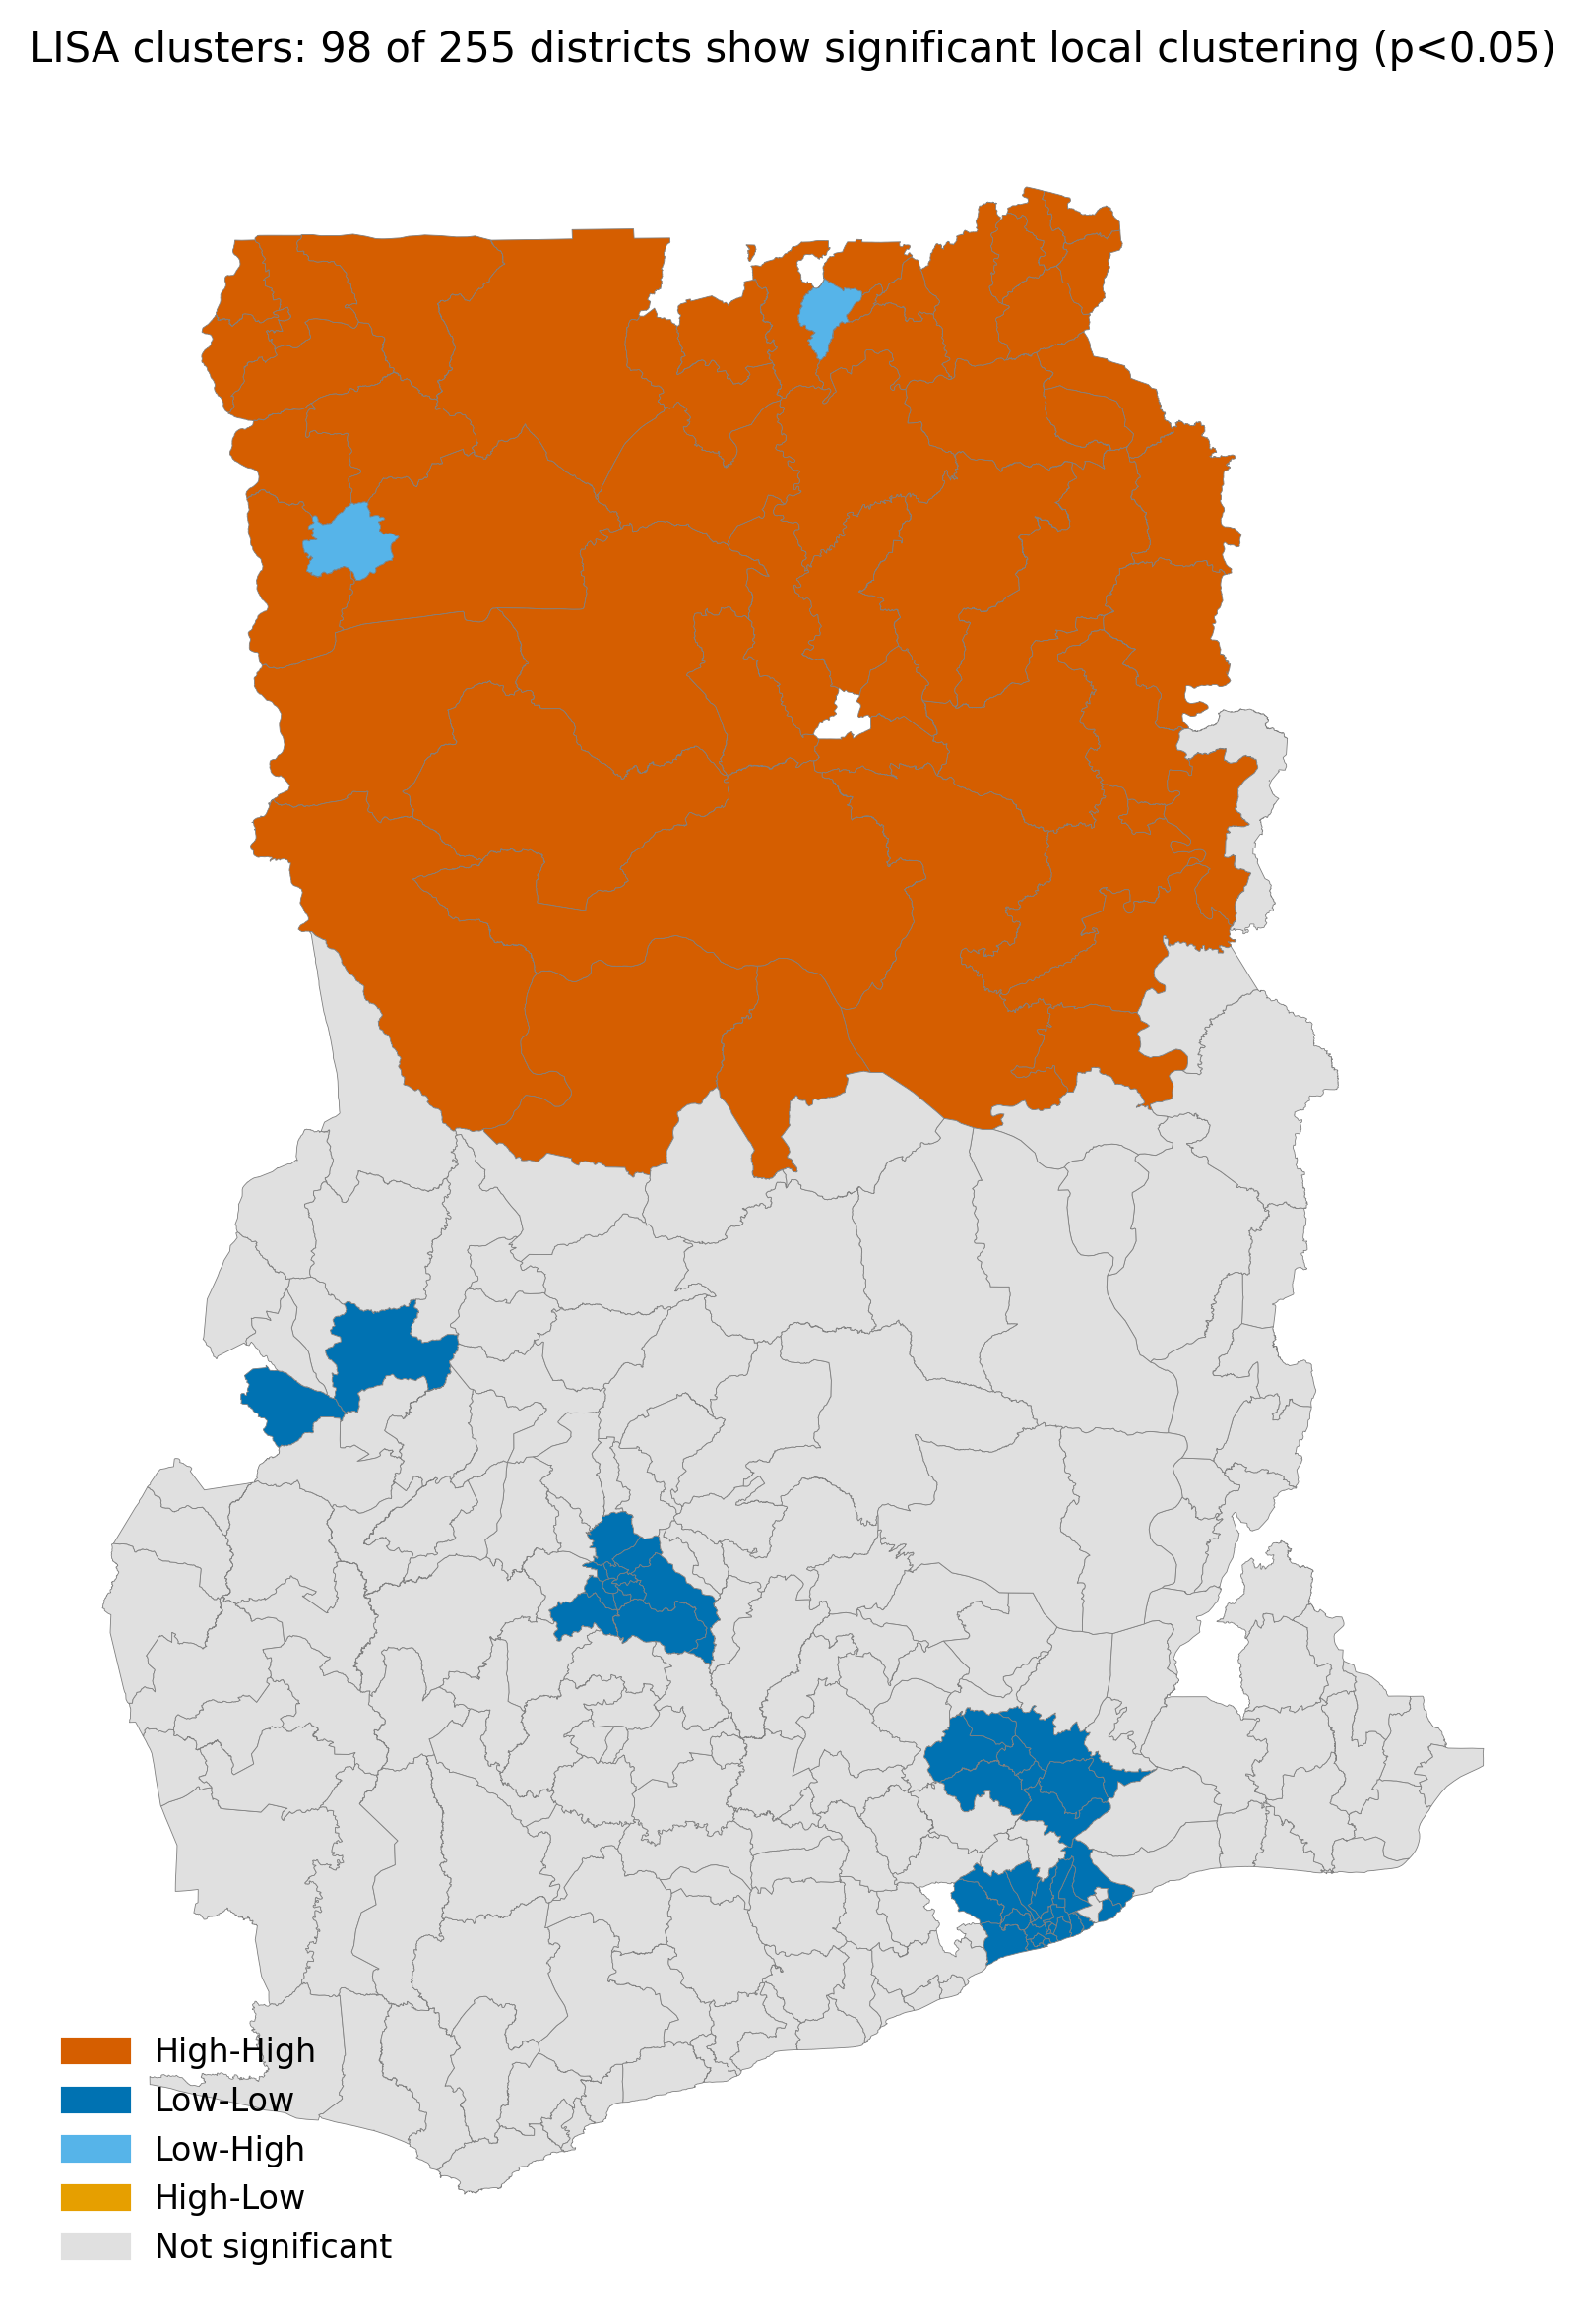
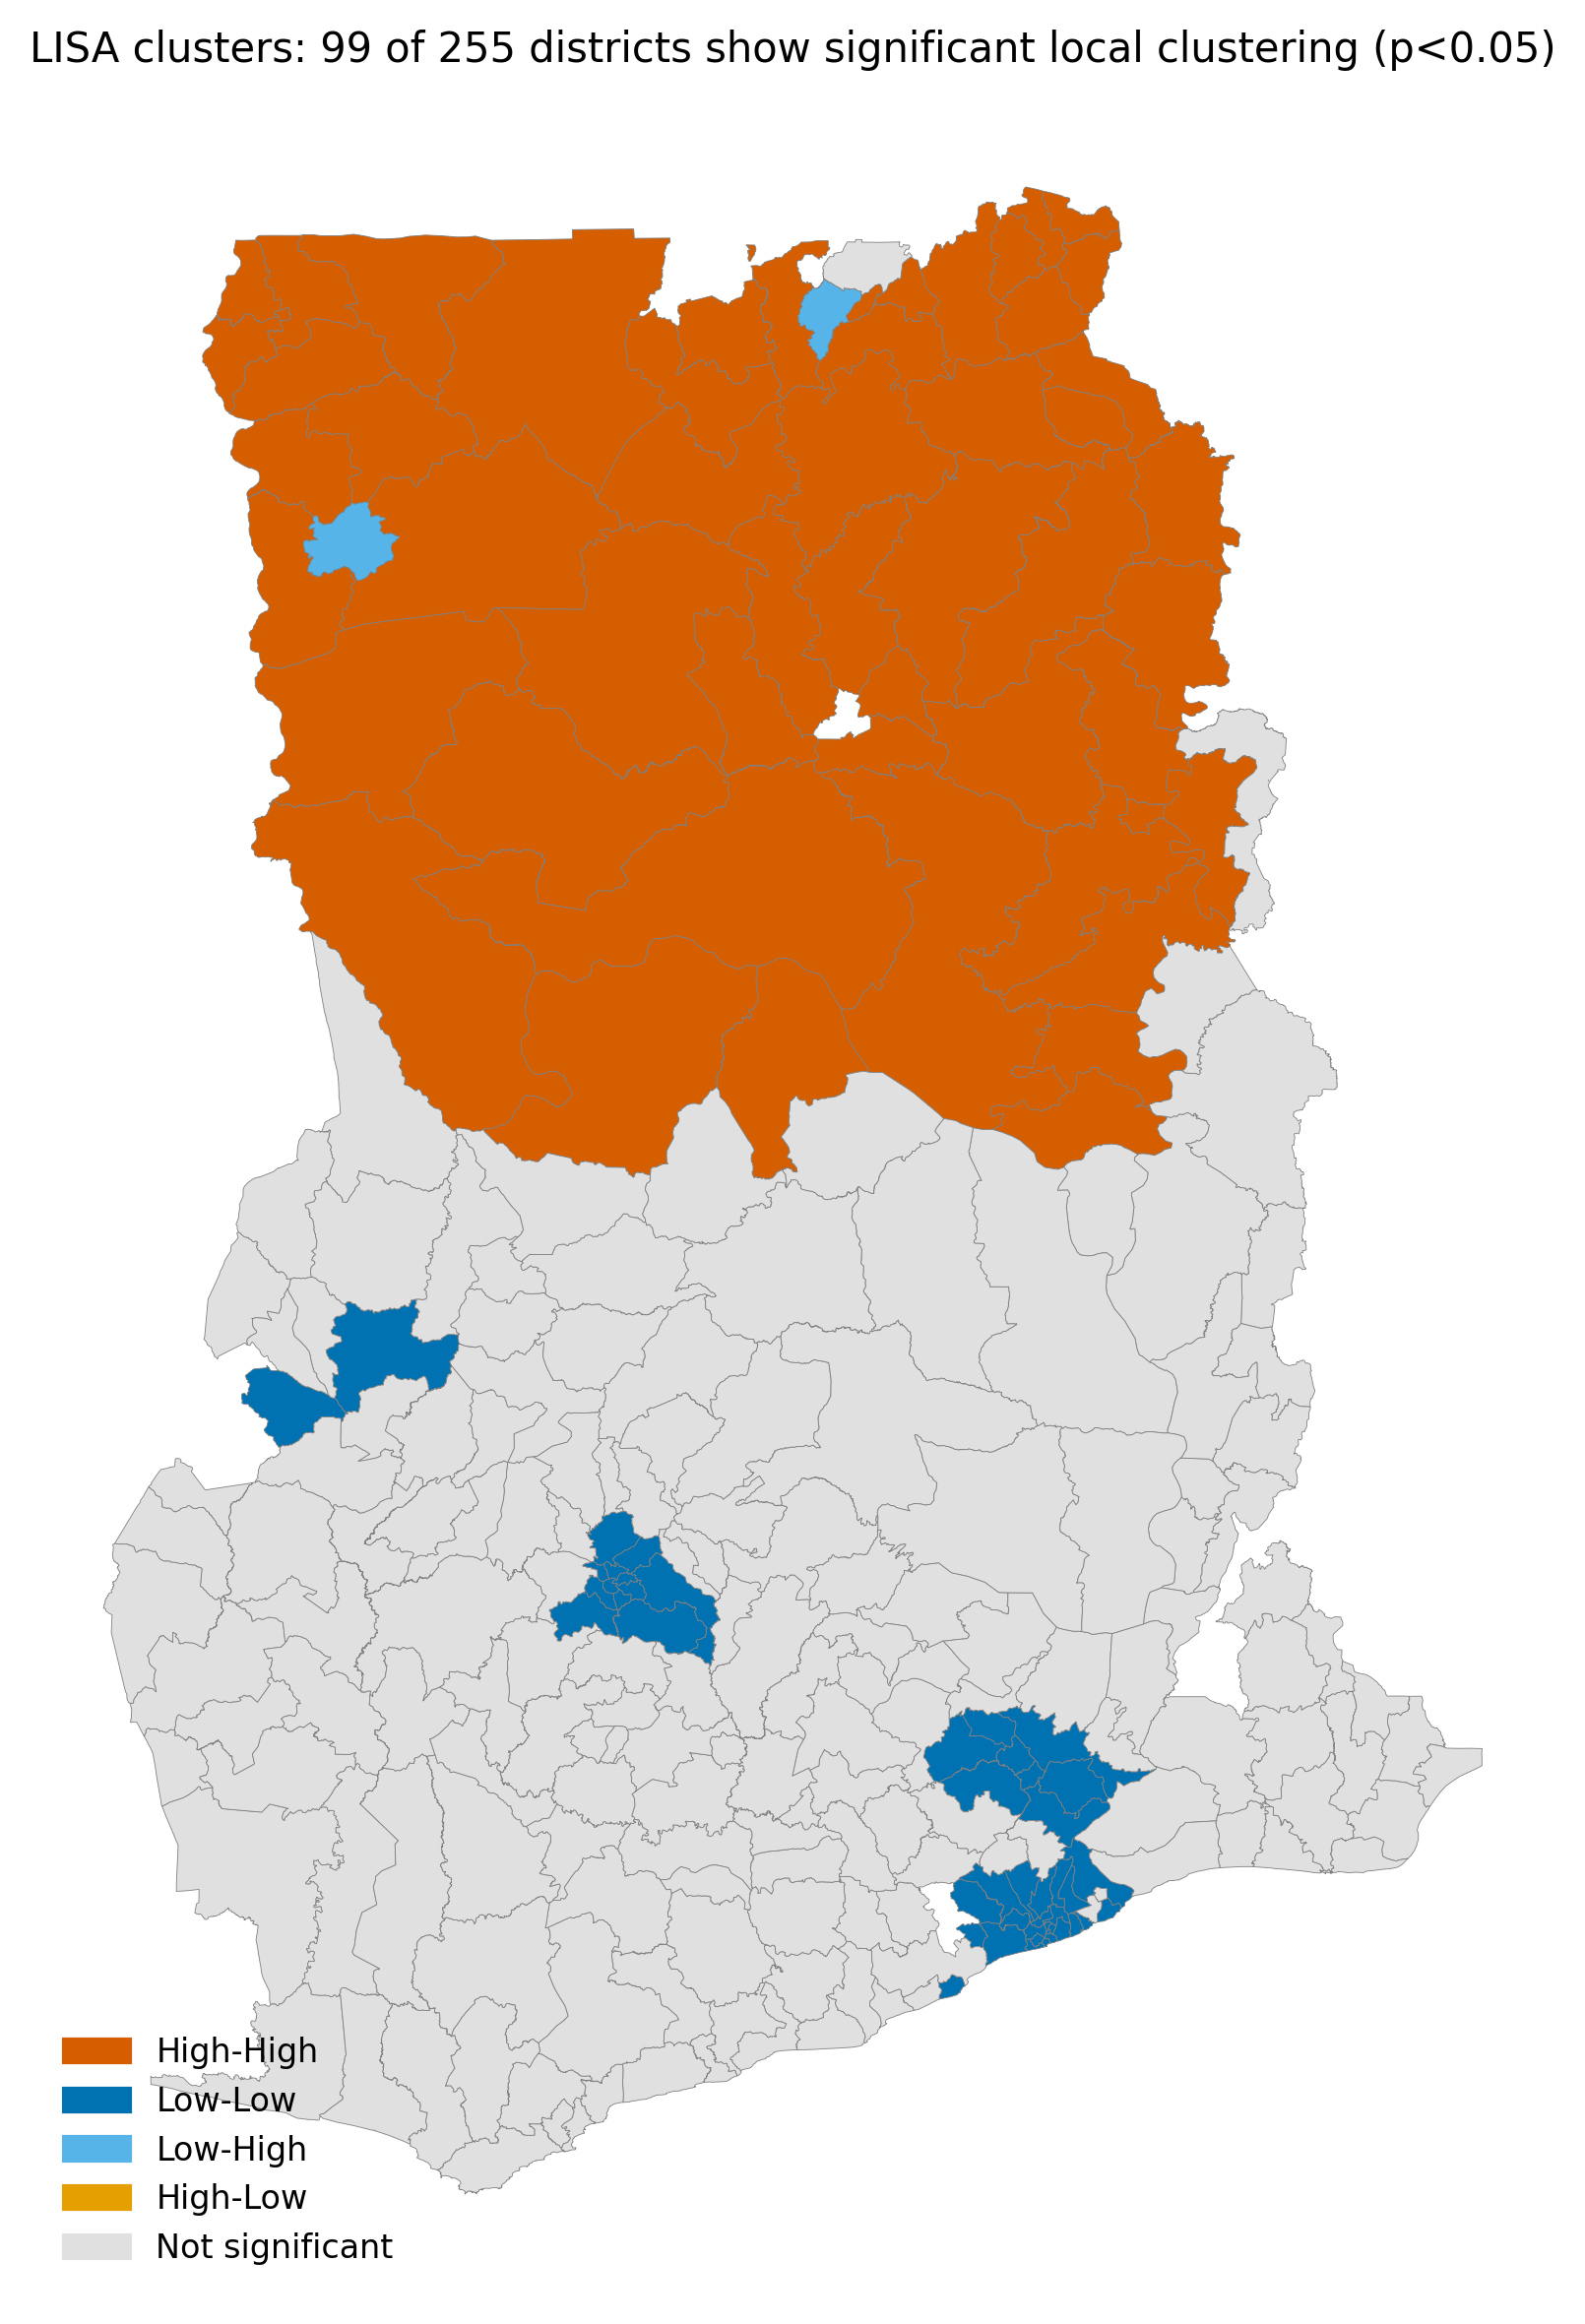
Fix manuscript aspect ratio, orphaned citations, and dashboard bars not rendering
Manuscript (analysis/build_figures.py, analysis/assemble_docx.py, qa/qa_6pass.py):
- figure2_forecast_comparison.png used figsize=(14,4.5) (aspect 3.11), embedding
  at ~1.75in tall at the manuscript's fixed 5.4in figure width -- illegible
  3-panel model comparison. Changed to (14,6.5) (aspect 2.08, ~2.6in embedded).
- Fixed 2 orphaned references (Alkire & Foster 2011; Ghana Statistical Service
  2021): both were in the bibliography with assigned numbers but never appeared
  as [n] anywhere in the body. Root cause: the Vancouver name-year converter
  required an entire semicolon-split parenthetical to be pure citation keys, so
  "(Alkire-Foster method; Alkire & Foster 2011)" failed wholesale instead of
  converting just the citation segment. Fixed the converter to convert
  per-segment; fixed the two source citations to use clean citation-only
  parentheticals. Added QA-3b (permanent): every listed reference must actually
  be cited in-text, not just bounded by count.
- Council-decided (2026-07-03): Discussion's non-ascending figure/table citation
  order is NOT a defect -- Discussion is organised by argument/theme, unlike
  Results which follows analysis sequence. QA-6b's ascending-order rule is
  correctly scoped to Results only; documented explicitly so this isn't
  re-litigated.

Dashboard/poster (bespoke templates): the histogram (and every other chart) was
rendering with zero painted content in a properly-sized canvas -- traced via
[…]

diff --git a/dashboard/TB_Trends_Ghana_Dashboard.html b/dashboard/TB_Trends_Ghana_Dashboard.html
@@ -38,6 +38,8 @@ html[data-theme=dark]{--bg:#0e1620;--panel:#16202c;--ink:#e7eef6;--muted:#90a2b6
 body{margin:0;background:var(--bg);color:var(--ink);font-family:'Inter',system-ui,-apple-system,Segoe UI,Roboto,Arial,sans-serif;-webkit-font-smoothing:antialiased;transition:background .25s,color .25s}
 .wrap{max-width:1480px;margin:0 auto;padding:16px 20px 48px}
 header.top{display:flex;flex-wrap:wrap;gap:14px;align-items:center;justify-content:space-between;background:linear-gradient(120deg,var(--primary),var(--primary2));color:#fff;border-radius:16px;padding:16px 22px;box-shadow:var(--shadow)}
+.caveat{display:none;margin-top:10px;padding:10px 16px;border-radius:10px;border:1.5px solid #b7791f;background:#fffbeb;color:#7c4a03;font-size:12.5px;line-height:1.5}
+[data-theme="dark"] .caveat{background:#3a2e10;color:#f5d896;border-color:#d69e2e}
 header.top h1{margin:0;font-size:1.26rem;font-weight:800;letter-spacing:-.01em}
 header.top .meta{font-size:.76rem;opacity:.92;margin-top:3px}
 .tag{display:inline-block;background:rgba(255,255,255,.2);font-size:.6rem;font-weight:700;padding:2px 8px;border-radius:20px;vertical-align:middle}
@@ -87,6 +89,7 @@ input[type=range]{width:155px;accent-color:var(--primary);cursor:pointer}
 @media(max-width:1100px){.kpis{grid-template-columns:repeat(3,1fr)}.span3,.span4,.span5,.span6,.span7,.span8{grid-column:span 12}.chart.map{height:380px}}
 </style></head><body><div class="wrap">
 <header class="top"><div><h1 id="ttl"></h1><div class="meta" id="sub"></div></div><div class="brand">HI-EI Dashboard</div></header>
+<div class="caveat" id="caveatBox"></div>
 <div class="toolbar">
  <div class="ctl"><label>Map / ranking metric</label><div class="seg" id="segMetric"></div></div>
  <div class="ctl"><label>Spatial clusters (toggle)</label><div class="chips" id="lisaChips"></div></div>
@@ -151,6 +154,7 @@ var UNIT=C.unitName||'region',UNIT_CAP=UNIT.charAt(0).toUpperCase()+UNIT.slice(1
 // header
 document.getElementById('ttl').innerHTML=C.title+' <span class="tag">'+C.tag+'</span>';
 document.getElementById('sub').textContent=C.sub+' · V. Ghanem · ORCID 0009-0002-8332-0220';
+if(C.caveat){var cb=document.getElementById('caveatBox');cb.style.display='block';cb.innerHTML='<strong>&#9888; '+(C.caveatLabel||'Interpretation caveat')+':</strong> '+C.caveat;}
 document.getElementById('foot').innerHTML='Interactive single-file HI-EI dashboard — works offline. Smart controls: metric switch, cluster toggles, focus filter, sort, threshold slider, '+(C.hasX?'what-if predictor (OLS), ':'')+'zoomable maps, live summary, CSV/PNG/self-download. Data: published '+UNIT+' values for this study.';
 document.getElementById('focusLabel').textContent='Focus '+UNIT;
 document.getElementById('allRegionsOpt').textContent='All '+UNITS;
@@ -293,9 +297,16 @@ function bulletOpt(){
   xAxis:{type:'value',axisLabel:{color:ax()},splitLine:{lineStyle:{color:gl()}}},
   yAxis:{type:'category',data:rows.map(function(r){return r.n;}),axisLabel:{color:ax(),fontSize:10},axisLine:{lineStyle:{color:gl()}}},
   series:[{name:'National mean',type:'bar',barGap:'-100%',barWidth:'48%',data:rows.map(function(r){return r.m;}),itemStyle:{color:NAT,borderColor:NATB,borderWidth:1.2,borderType:'dashed'},z:1},
-   {name:'Focus',type:'bar',barWidth:'38%',data:rows.map(function(r){return r.f;}),itemStyle:{color:function(pp){return fRec?LISA[fRec.lisa]:FOC;}},z:2,label:{show:true,position:'right',color:ax(),formatter:function(p){return p.value.toFixed(1);}}}]};}
+   {name:'Focus',type:'bar',barWidth:'38%',data:rows.map(function(r){return r.f;}),itemStyle:{color:function(pp){return fRec?LISA[fRec.lisa]:FOC;}},z:2,label:{show:true,position:'right',color:ax(),formatter:function(p){return p.value.toFixed(1);}}},
+   // Standalone marker for the national mean: a bar collapses to an invisible sliver
+   // when the underlying metric is a z-score/PCA composite whose mean is ~0 by
+   // construction (bug found 2026-07-04: the "National mean" bar was undetectable
+   // for such indices). A scatter point stays visible regardless of bar width.
+   {name:'National mean',type:'scatter',symbol:'diamond',symbolSize:13,z:3,silent:true,
+    data:rows.map(function(r,i){return{value:[r.m,i],itemStyle:{color:NAT,borderColor:NATB,borderWidth:1.5}};}),
+    label:{show:true,position:'top',color:ax(),fontSize:9,formatter:function(p){return 'mean '+p.value[0].toFixed(2);}}}]};}
 
-function zoomMap(id,factor){if(factor==='reset'){mapZoom[id]=1;get(id).setOption(id==='mapLisa'?mapOpt('lisa'):mapOpt('v'),true);return;}
+function zoomMap(id,factor){if(factor==='reset'){mapZoom[id]=1;var mo=id==='mapLisa'?mapOpt('lisa'):mapOpt('v');mo.animation=false;get(id).setOption(mo,true);return;}
  var c=charts[id];if(!c)return;var z=mapZoom[id]||1;try{z=c.getOption().series[0].zoom||z;}catch(e){}
  mapZoom[id]=Math.max(1,Math.min(12,z*factor));c.setOption({series:[{zoom:mapZoom[id]}]});}
 function gradLegend(){var el=document.getElementById('legP');if(!el)return;var m=S.metric,r=rng(m),stops=[],dp=(r[1]-r[0]>20?0:1);for(var i=0;i<=12;i++)stops.push(cs(i/12));
@@ -321,8 +332,13 @@ function titles(){document.getElementById('mapTitle').textContent=metricOf(S.met
   document.getElementById('heatTitle').textContent='Distribution — '+PRIM.label;
   document.getElementById('heatCap').textContent='Districts binned by value; colour = dominant LISA cluster per bin.';
  }}
-function renderAll(){DEFS.forEach(function(c){if(c[0]==='scatter'&&!C.hasX)return;get(c[0]).setOption(c[1](),true);});summary();titles();gradLegend();}
-function renderOne(id){var m={mapP:function(){return mapOpt('v');},rank:rankOpt,scatter:scOpt,tiers:tiersOpt,lollipop:lolOpt,bullet:bulletOpt};if(m[id])get(id).setOption(m[id](),true);}
+function renderAll(){DEFS.forEach(function(c){if(c[0]==='scatter'&&!C.hasX)return;
+ var opt=c[1]();opt.animation=false; // entrance animation + resize() interact badly: a resize()
+ // called while the animation hasn't finished its first frame can leave bars/points stuck at
+ // their pre-animation state (height:0) indefinitely -- confirmed via zrender shape inspection.
+ // These are data dashboards, not presentation decks -- render final state immediately.
+ get(c[0]).setOption(opt,true);});summary();titles();gradLegend();}
+function renderOne(id){var m={mapP:function(){return mapOpt('v');},rank:rankOpt,scatter:scOpt,tiers:tiersOpt,lollipop:lolOpt,bullet:bulletOpt};if(m[id]){var o=m[id]();o.animation=false;get(id).setOption(o,true);}}
 function setFocus(n){S.focus=n||'';document.getElementById('regionSel').value=S.focus;renderAll();}
 // controls
 var chips=document.getElementById('lisaChips');['HH','LL','HL','LH','NS'].forEach(function(k){var b=document.createElement('button');b.className='chip';b.style.background=LISA[k];b.innerHTML='<span class="dot"></span>'+k;b.onclick=function(){S.clusters[k]=S.clusters[k]?0:1;b.classList.toggle('off',!S.clusters[k]);renderAll();};chips.appendChild(b);});
@@ -350,4 +366,36 @@ lisaLegend();
 renderAll();
 if(C.hasX){var o0=ols();document.getElementById('wfOut').innerHTML='predicted '+PRIM.label+' ≈ <b>'+(o0.a+o0.b*S.wf).toFixed(1)+PRIM.unit+'</b>';}
 window.addEventListener('resize',function(){clearTimeout(window._rt);window._rt=setTimeout(function(){Object.keys(charts).forEach(function(k){charts[k].resize();});},150);});
+// ECharts measures its canvas from the container's box at the exact instant init()
+// runs. renderAll() above calls init() synchronously while the script executes --
+// before the browser guarantees the CSS grid layout has settled (observed: every
+// chart's canvas locked at ~111px regardless of its actual container width, e.g. a
+// 368px card rendering an unreadably tiny/blurry upscaled 111px canvas).
+// A fixed-delay double-rAF resize was tried first but isn't robust against slower or
+// later-settling layouts (reproduced during verification: viewport briefly reported
+// 0x0, the rAF pair fired anyway, and every canvas got locked in at the collapsed
+// ~111px size -- a manual .resize() afterward fixed it instantly, proving the resize
+// mechanism itself works fine and the fixed delay was the weak link). A ResizeObserver
+// on the grid container reacts to the ACTUAL layout event instead of assuming N
+// frames is enough, so it self-heals regardless of how long the browser takes.
+(function(){
+  var gridEl = document.querySelector('.grid');
+  if (!gridEl || typeof ResizeObserver === 'undefined') {
+    requestAnimationFrame(function(){requestAnimationFrame(function(){Object.keys(charts).forEach(function(k){charts[k].resize();});});});
+    return;
+  }
+  // Resize exactly ONCE, on the first non-zero layout, then disconnect immediately --
+  // NOT on every firing. Calling chart.resize() repeatedly in quick succession was
+  // found to reset each series' entrance animation back to its starting frame (bars
+  // stuck at height:0 indefinitely, confirmed via zrender shape inspection), because
+  // ResizeObserver can fire several times within milliseconds as layout settles.
+  var ro = new ResizeObserver(function(entries){
+    var w = entries[0].contentRect.width;
+    if (w > 0) {
+      ro.disconnect();
+      Object.keys(charts).forEach(function(k){charts[k].resize();});
+    }
+  });
+  ro.observe(gridEl);
+})();
 </script></body></html>

diff --git a/qa/qa_6pass.py b/qa/qa_6pass.py
@@ -58,6 +58,16 @@ P["QA-3 references sequential + Vancouver 1:1"] = (
     refs == list(range(1, len(refs) + 1)) and (not intext or max(intext) <= len(refs))
 )
 
+# QA-3b every listed reference is actually cited in-text at least once (user-caught defect
+# 2026-07-03: Alkire & Foster 2011 and Ghana Statistical Service 2021 were both in the
+# bibliography with assigned numbers but never appeared as [n] anywhere in the body --
+# QA-3 only checked that in-text numbers don't EXCEED the reference count, not that every
+# reference is actually used. Root cause was the Vancouver converter silently dropping any
+# citation written inside a parenthetical mixed with descriptive text, e.g. "(Alkire-Foster
+# method; Alkire & Foster 2011)" -- fixed in assemble_docx.py's vancouver() to convert
+# per-segment instead of requiring the whole parenthetical to be pure citations.)
+P["QA-3b no orphaned references (every listed ref cited in-text)"] = set(refs) <= intext
+
 # QA-4 writing: no AI-isms
 ais = re.findall(r"\b(delve|leverage|utiliz\w+|tapestry|crucial|holistic|multifaceted|paramount)\b", (ab + im + res + dis), re.I)
 P["QA-4 writing: no AI-isms"] = len(ais) == 0
@@ -70,9 +80,15 @@ xr_fig = all((f"Figure {n}" in res and f"Figure {n}" in dis) for n in range(1, 7
 xr_tab = all((f"Table {t}" in res and f"Table {t}" in dis) for t in ["1", "2", "3", "4", "5"])
 P["QA-6 fig/table cross-ref BOTH sections"] = xr_fig and xr_tab
 
-# QA-6b figures/tables cited in ASCENDING order at first appearance in Results (user-caught
-# defect 2026-07-01: Figure 6 was cited before Figures 3-5 because PNG build order != narrative
-# order -- this check exists specifically to catch that defect class recurring).
+# QA-6b figures/tables cited in ASCENDING order at first appearance in RESULTS ONLY
+# (user-caught defect 2026-07-01: Figure 6 was cited before Figures 3-5 because PNG build
+# order != narrative order -- this check exists specifically to catch that defect class
+# recurring). SCOPE IS DELIBERATE, not an oversight: Results reports findings in the order
+# analyses were run, so ascending order is the correct, enforceable convention there.
+# Discussion is organised by argument/theme, not sequence -- Q1 journals routinely revisit
+# earlier figures out of numeric order when a later argument needs them (council-decided
+# 2026-07-03, re-litigated once already; do not re-open). Discussion's real requirement is
+# QA-6 above: every figure/table cited at its natural analytic point in BOTH sections.
 def first_citation_order(text, pattern):
     seen = []
     for m in re.finditer(pattern, text):

diff --git a/analysis/assemble_docx.py b/analysis/assemble_docx.py
@@ -94,11 +94,24 @@ paren_re = re.compile(r"\(([^()]*\d{4}[^()]*)\)")
 
 
 def vancouver(txt):
+    # A parenthetical mixing descriptive text with a citation (e.g. "(Ashanti Region;
+    # Panford et al. 2022)" or "(Alkire-Foster method; Alkire & Foster 2011)") used to be
+    # left entirely unconverted, because every semicolon-segment had to be a pure known
+    # citation key -- this silently dropped a real citation whenever it was written with
+    # inline context (caught 2026-07 when two references never appeared as [n] anywhere
+    # in the assembled body despite being genuinely used). Now converts per-segment:
+    # citation segments become numbers, descriptive segments are kept as prose, and a
+    # bracketed citation is appended after the prose rather than the whole thing failing.
     def repl(m):
         segs = [s.strip() for s in re.split(r";\s*", m.group(1))]
-        if segs and all(s in num for s in segs):
-            return "[" + ",".join(str(num[s]) for s in segs) + "]"
-        return m.group(0)
+        cite_nums = [str(num[s]) for s in segs if s in num]
+        prose = [s for s in segs if s not in num]
+        if not cite_nums:
+            return m.group(0)
+        cite = "[" + ",".join(cite_nums) + "]"
+        if prose:
+            return "(" + "; ".join(prose) + ") " + cite
+        return cite
     return paren_re.sub(repl, txt)
 
 

diff --git a/analysis/build_figures.py b/analysis/build_figures.py
@@ -67,7 +67,7 @@ model_b = pd.read_csv(DATA / "forecast_folds_model_b.csv")
 with open(DATA / "forecast_metrics_summary.json") as f:
     metrics = json.load(f)
 
-fig, axes = plt.subplots(1, 3, figsize=(14, 4.5), sharey=True)
+fig, axes = plt.subplots(1, 3, figsize=(14, 6.5), sharey=True)
 models = [("arima_pred", "ARIMA", OI["blue"]), ("lstm_pred", "LSTM", OI["orange"]), ("xgb_pred", "XGBoost", OI["green"])]
 for ax, (col, label, color) in zip(axes, models):
     ax.plot(model_a["fold_year"], model_a["true"], "ko-", label="Observed", markersize=5)

diff --git a/README.md b/README.md
@@ -103,7 +103,7 @@ python analysis/spatial_analysis.py            # Moran's I / Getis-Ord Gi* / LIS
 python analysis/shap_decomposition.py          # SHAP feature importance, XGBoost forecast
 python analysis/build_figures.py               # 6 manuscript figures
 python analysis/build_release_package.py       # FAIR master CSV release + data dictionary
-python qa/qa_6pass.py                          # 15-panel QA protocol (requires local manuscript, not in repo)
+python qa/qa_6pass.py                          # 16-panel QA protocol (requires local manuscript, not in repo)
 pytest tests/ -v                                # 5 reproducibility tests
 ```
 
@@ -145,9 +145,10 @@ years covered, unit and data type for all 41 variables across the two release CS
 ## 11. Analytical verification
 
 - `pytest tests/` — 5 reproducibility sanity tests on the rebuilt master datasets, run in CI.
-- `python qa/qa_6pass.py` — 15-panel QA protocol (data integrity, statistical trace, figure/table quality,
-  ascending-order figure/table citation check, references, writing quality, cross-referencing, reporting
-  standards, declarations); badge [`qa/QA_PASSED_2026-07-01.txt`](qa/QA_PASSED_2026-07-01.txt).
+- `python qa/qa_6pass.py` — 16-panel QA protocol (data integrity, statistical trace, figure/table quality,
+  ascending-order figure/table citation check in Results, orphaned-reference check, references, writing
+  quality, cross-referencing, reporting standards, declarations); badge
+  [`qa/QA_PASSED_2026-07-01.txt`](qa/QA_PASSED_2026-07-01.txt).
 - Dashboard and poster were render-verified headlessly. All headline numbers (42%, 216, 126, −4.0, 0.37, 3.71,
   4.07, 0.80, 0.987) are reconciled across the manuscript, the master CSV release, the dashboard, and the poster.
 